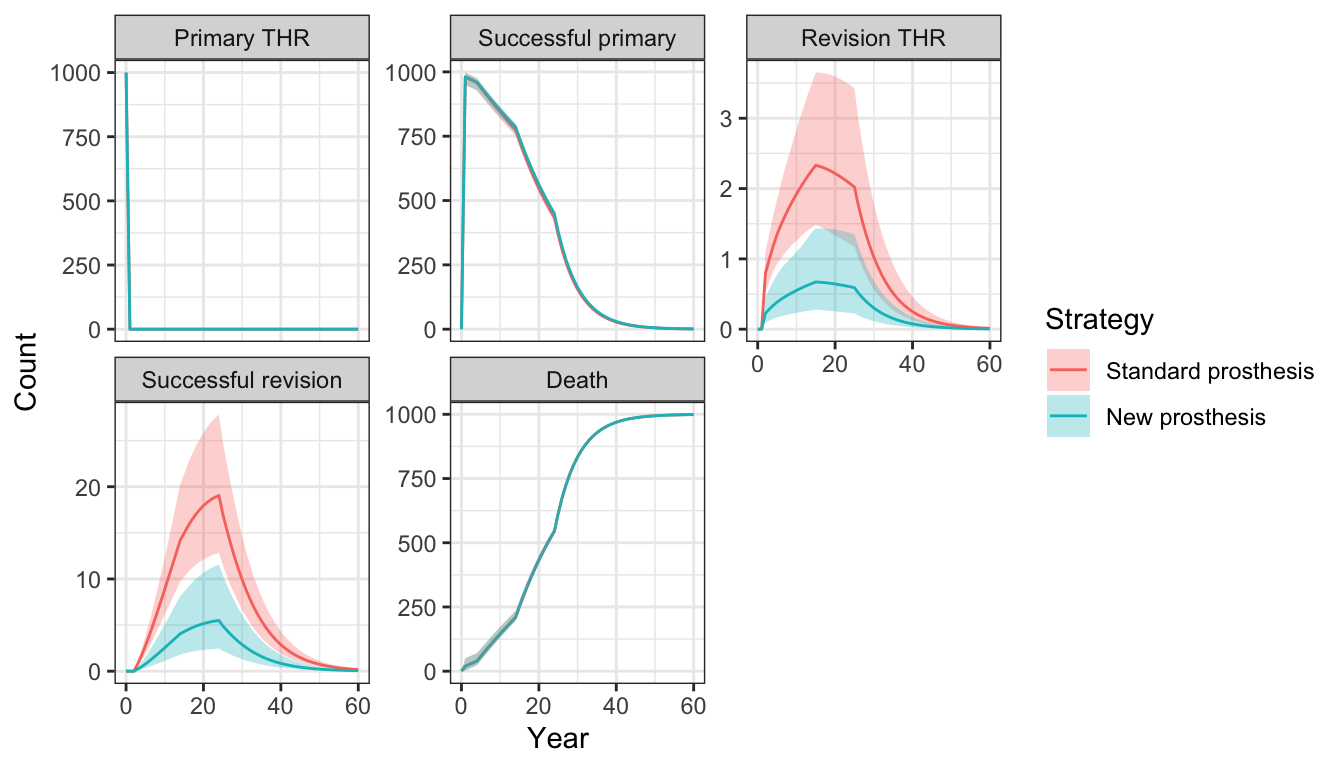
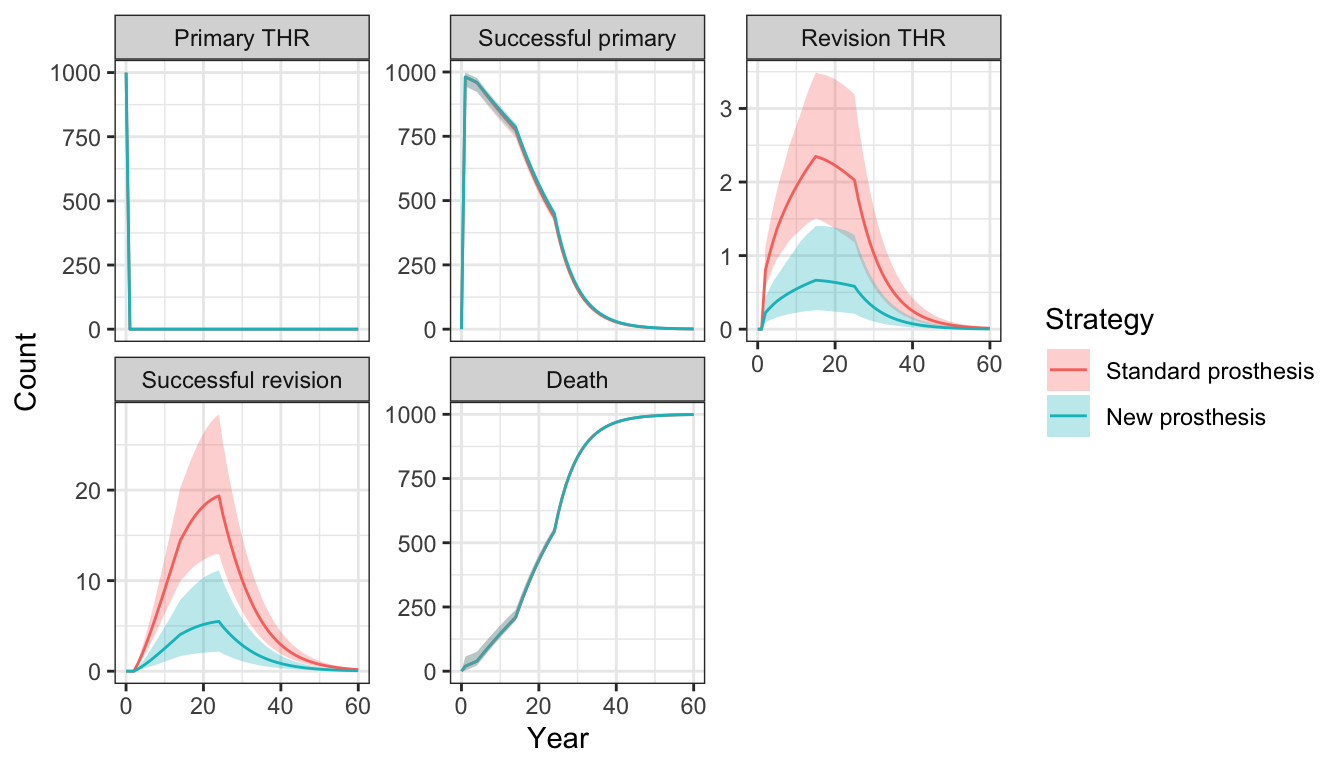
Explanation of matrix multiplication in computational efficiency portion of markov inhomogeneous cobort vignette

diff --git a/docs/dev/articles/markov-inhomogeneous-cohort.html b/docs/dev/articles/markov-inhomogeneous-cohort.html
@@ -543,38 +543,38 @@ S(t) = \exp(-\lambda t^\gamma) \\
               <span class="fu">.</span>(<span class="kw">mean</span> <span class="kw">=</span> <span class="fu"><a href="https://rdrr.io/r/base/mean.html">mean</a></span>(<span class="no">qalys</span>)),
                 <span class="kw">by</span> <span class="kw">=</span> <span class="fu"><a href="https://rdrr.io/r/base/c.html">c</a></span>(<span class="st">"strategy_id"</span>, <span class="st">"grp_id"</span>)]</pre></body></html></div>
 <pre><code>##    strategy_id grp_id     mean
-## 1:           1      2 14.65901
-## 2:           2      2 14.70386</code></pre>
+## 1:           1      2 14.62572
+## 2:           2      2 14.67081</code></pre>
 <div class="sourceCode" id="cb20"><html><body><pre class="r"><span class="no">ce_sim</span>$<span class="no">costs</span>[<span class="no">grp_id</span> <span class="kw">==</span> <span class="fl">2</span> <span class="kw">&amp;</span> <span class="no">category</span> <span class="kw">==</span> <span class="st">"total"</span>,
             <span class="fu">.</span>(<span class="kw">mean</span> <span class="kw">=</span> <span class="fu"><a href="https://rdrr.io/r/base/mean.html">mean</a></span>(<span class="no">costs</span>)),
               <span class="kw">by</span> <span class="kw">=</span> <span class="fu"><a href="https://rdrr.io/r/base/c.html">c</a></span>(<span class="st">"strategy_id"</span>, <span class="st">"grp_id"</span>)]</pre></body></html></div>
 <pre><code>##    strategy_id grp_id     mean
-## 1:           1      2 511.4377
-## 2:           2      2 612.7406</code></pre>
+## 1:           1      2 509.7931
+## 2:           2      2 611.8894</code></pre>
 <p>We can then compute incremental cost-effectiveness ratios for each subgroup. There is considerable variation which is not unexpected since the the revision rate for prostheses (<em>rr</em>) depends on covariates.</p>
 <div class="sourceCode" id="cb22"><html><body><pre class="r"><span class="fu"><a href="../reference/icer_tbl.html">icer_tbl</a></span>(<span class="no">cea_pw_out</span>, <span class="kw">output</span> <span class="kw">=</span> <span class="st">"data.table"</span>)</pre></body></html></div>
 <pre><code>##     strategy_id grp_id            iqalys         icosts                  inmb
-##  1:           2      1 0.07 (0.03, 0.13)  68 (-43, 136)  3,562 (1,243, 6,627)
-##  2:           2      2 0.04 (0.02, 0.08)  101 (17, 150)    2,141 (704, 4,074)
-##  3:           2      3 0.03 (0.01, 0.05)  127 (66, 161)    1,211 (365, 2,354)
-##  4:           2      4 0.02 (0.01, 0.03) 146 (103, 169)      624 (135, 1,299)
-##  5:           2      5 0.01 (0.00, 0.02) 160 (131, 175)         273 (-5, 661)
-##  6:           2      6 0.12 (0.04, 0.20) -27 (-216, 96) 5,785 (2,036, 10,064)
-##  7:           2      7 0.07 (0.02, 0.12) 35 (-101, 122)  3,458 (1,230, 6,063)
-##  8:           2      8 0.04 (0.02, 0.07)  83 (-13, 142)    1,964 (647, 3,540)
-##  9:           2      9 0.02 (0.01, 0.04)  117 (52, 157)    1,046 (305, 1,920)
-## 10:           2     10 0.01 (0.01, 0.02)  142 (99, 167)      508 (102, 1,007)
+##  1:           2      1 0.07 (0.03, 0.13)  70 (-32, 135)  3,565 (1,294, 6,641)
+##  2:           2      2 0.05 (0.02, 0.08)  102 (27, 150)    2,152 (756, 4,059)
+##  3:           2      3 0.03 (0.01, 0.05)  127 (75, 160)    1,222 (397, 2,408)
+##  4:           2      4 0.02 (0.01, 0.03) 146 (110, 169)      634 (157, 1,337)
+##  5:           2      5 0.01 (0.00, 0.02) 160 (136, 175)         280 (18, 680)
+##  6:           2      6 0.12 (0.05, 0.21) -25 (-197, 96) 5,851 (2,250, 10,605)
+##  7:           2      7 0.07 (0.03, 0.13)  36 (-90, 122)  3,511 (1,335, 6,422)
+##  8:           2      8 0.04 (0.02, 0.08)   83 (-4, 142)    2,003 (723, 3,759)
+##  9:           2      9 0.02 (0.01, 0.04)  117 (58, 157)    1,073 (360, 2,078)
+## 10:           2     10 0.01 (0.01, 0.02) 141 (102, 167)      525 (118, 1,089)
 ##          icer     conclusion
-##  1:       943 Cost-effective
-##  2:     2,259 Cost-effective
-##  3:     4,743 Cost-effective
-##  4:     9,486 Cost-effective
-##  5:    18,465 Cost-effective
+##  1:       963 Cost-effective
+##  2:     2,264 Cost-effective
+##  3:     4,712 Cost-effective
+##  4:     9,368 Cost-effective
+##  5:    18,153 Cost-effective
 ##  6: Dominates Cost-effective
-##  7:       504 Cost-effective
-##  8:     2,023 Cost-effective
-##  9:     5,039 Cost-effective
-## 10:    10,916 Cost-effective</code></pre>
+##  7:       508 Cost-effective
+##  8:     1,988 Cost-effective
+##  9:     4,918 Cost-effective
+## 10:    10,611 Cost-effective</code></pre>
 </div>
 <div id="overall" class="section level2">
 <h2 class="hasAnchor">
@@ -586,9 +586,9 @@ S(t) = \exp(-\lambda t^\gamma) \\
 <span class="fu"><a href="../reference/icer_tbl.html">icer_tbl</a></span>(<span class="no">cea_pw_out</span>)</pre></body></html></div>
 <pre><code>##                   1   2                   
 ## Incremental QALYs "-" "0.03 (0.01, 0.05)" 
-## Incremental costs "-" "119 (52, 157)"     
-## Incremental NMB   "-" "1,331 (442, 2,531)"
-## ICER              "-" "4,099"             
+## Incremental costs "-" "119 (63, 157)"     
+## Incremental NMB   "-" "1,349 (476, 2,594)"
+## ICER              "-" "4,054"             
 ## Conclusion        "-" "Cost-effective"</code></pre>
 </div>
 </div>
@@ -622,7 +622,7 @@ tp(t_u) &amp;= 1 - exp\{\lambda (t-u)^\gamma -\lambda t^\gamma\} \\
 <h2 class="hasAnchor">
 <a href="#computational-efficiency" class="anchor"></a>Computational efficiency</h2>
 <p>The largest bottleneck in <code><a href="../reference/define_model.html">define_model()</a></code> is the construction of the economic model and the construction of the transition model in particular. The reason for this is that all transition probabilities are “vectorized” and consequently preallocated. This preallocation can take time if the number of parameter samples <span class="math inline">\(\times\)</span> treatment strategies <span class="math inline">\(\times\)</span> patients <span class="math inline">\(\times\)</span> time periods is large. Since the <code>$sim_stateprobs()</code> method is implemented in <code>C++</code> the simulation is very fast one the transition probabilities have been constructed.</p>
-<p>The disadvantage of <code><a href="../reference/define_model.html">define_model()</a></code> for preallocation is that it is a general function, resulting in some overhead. An alternative approach is to construct the transition probability matrix ourselves using matrix algebra. That is, for a given sample of the parameters from the PSA, we can predict the element for the <span class="math inline">\(i\)</span>th row and <span class="math inline">\(j\)</span>th column as <span class="math inline">\(p_{ij} = g(x^T\theta)\)</span> where <span class="math inline">\(x\)</span> is an input matrix, <span class="math inline">\(\theta\)</span> is a vector of coefficients (i.e., a parameter sample), and <span class="math inline">\(g()\)</span> is a transformation function. An input matrix will always vary by treatment strategy and patient; in a time-inhomogeneous model, it will vary by time period as well.</p>
+<p>The disadvantage of <code><a href="../reference/define_model.html">define_model()</a></code> for preallocation is that it is a general function, resulting in some overhead. An alternative approach is to construct the transition probability matrix ourselves using matrix algebra. That is, for a given sample of the parameters from the PSA, we can predict the element for the <span class="math inline">\(r\)</span>th row and <span class="math inline">\(s\)</span>th column as <span class="math inline">\(p_{rs} = g(x^T\theta)\)</span> where <span class="math inline">\(x\)</span> is an input matrix, <span class="math inline">\(\theta\)</span> is a vector of coefficients (i.e., a parameter sample), and <span class="math inline">\(g()\)</span> is a transformation function. An input matrix will always vary by treatment strategy and patient; in a time-inhomogeneous model, it will vary by time period as well.</p>
 <div id="random-number-generation-1" class="section level3">
 <h3 class="hasAnchor">
 <a href="#random-number-generation-1" class="anchor"></a>Random number generation</h3>
@@ -725,7 +725,7 @@ tp(t_u) &amp;= 1 - exp\{\lambda (t-u)^\gamma -\lambda t^\gamma\} \\
 ## 4:      1           1          1      1     0.0325       4          3         4
 ## 5:      1           1          1      1     0.0325       5          4         5
 ## 6:      1           1          1      1     0.0325       6          5         6</code></pre>
-<p><code><a href="../reference/tpmatrix.html">tpmatrix()</a></code> produces a flattened transition probability matrix for each row of <code>tpmatrix_id</code>. We predict the elements of the matrix using the input matrices we derived above.</p>
+<p><code><a href="../reference/tpmatrix.html">tpmatrix()</a></code> produces a flattened transition probability matrix for each row of <code>tpmatrix_id</code>. We predict the elements of the matrix using the input matrices we derived above. Matrix multiplication of an <span class="math inline">\(n \times k\)</span> input matrix by a <span class="math inline">\(k \times s\)</span> coefficient matrix results in a <span class="math inline">\(n \times s\)</span> matrix of predicted values. In other words, there is one row for each of the <span class="math inline">\(n\)</span> rows in the input data and one column for each of the <span class="math inline">\(s\)</span> parameter samples. This matrix can itself be flattened into a vector of length <span class="math inline">\(n \cdot s\)</span> using the <code><a href="https://rdrr.io/r/base/c.html">c()</a></code> function. The result is a vector of predicted values stacked by parameter sample; that is, a prediction for each row produced by <code><a href="../reference/tpmatrix_id.html">tpmatrix_id()</a></code>.</p>
 <div class="sourceCode" id="cb38"><html><body><pre class="r"><span class="co"># "Transformed" parameters</span>
 <span class="no">time</span> <span class="kw">&lt;-</span> <span class="no">tpmat_id</span>$<span class="no">time_stop</span>
 <span class="no">omrPTHR</span> <span class="kw">&lt;-</span> <span class="fu"><a href="https://rdrr.io/r/base/c.html">c</a></span>(<span class="no">x_cons</span> <span class="kw">%*%</span> <span class="no">params_rng</span>$<span class="no">omrPTHR</span>)
@@ -745,12 +745,12 @@ tp(t_u) &amp;= 1 - exp\{\lambda (t-u)^\gamma -\lambda t^\gamma\} \\
   <span class="fl">0</span>, <span class="fl">0</span>, <span class="fl">0</span>,   <span class="fl">0</span>, <span class="fl">1</span>
 )
 <span class="no">tpmat</span>[<span class="fl">1</span>, ]</pre></body></html></div>
-<pre><code>##    s1_s1     s1_s2 s1_s3 s1_s4      s1_s5 s2_s1     s2_s2        s2_s3 s2_s4
-## 1:     0 0.9844351     0     0 0.01556493     0 0.9927275 0.0005724897     0
-##     s2_s5 s3_s1 s3_s2 s3_s3     s3_s4      s3_s5 s4_s1 s4_s2      s4_s3
-## 1: 0.0067     0     0     0 0.9777351 0.02226493     0     0 0.02247722
-##        s4_s4  s4_s5 s5_s1 s5_s2 s5_s3 s5_s4 s5_s5
-## 1: 0.9708228 0.0067     0     0     0     0     1</code></pre>
+<pre><code>##    s1_s1     s1_s2 s1_s3 s1_s4     s1_s5 s2_s1     s2_s2        s2_s3 s2_s4
+## 1:     0 0.9787901     0     0 0.0212099     0 0.9927714 0.0005285932     0
+##     s2_s5 s3_s1 s3_s2 s3_s3     s3_s4     s3_s5 s4_s1 s4_s2      s4_s3    s4_s4
+## 1: 0.0067     0     0     0 0.9720901 0.0279099     0     0 0.04606698 0.947233
+##     s4_s5 s5_s1 s5_s2 s5_s3 s5_s4 s5_s5
+## 1: 0.0067     0     0     0     0     1</code></pre>
 <p>Finally, we combine the ID variables and the transition probability matrices into a single object.</p>
 <div class="sourceCode" id="cb40"><html><body><pre class="r"><span class="no">tparams_transprobs</span> <span class="kw">&lt;-</span> <span class="fu"><a href="../reference/tparams_transprobs.html">tparams_transprobs</a></span>(<span class="no">tpmat</span>, <span class="no">tpmat_id</span>)</pre></body></html></div>
 </div>
@@ -769,15 +769,15 @@ tp(t_u) &amp;= 1 - exp\{\lambda (t-u)^\gamma -\lambda t^\gamma\} \\
               <span class="fu">.</span>(<span class="kw">mean</span> <span class="kw">=</span> <span class="fu"><a href="https://rdrr.io/r/base/mean.html">mean</a></span>(<span class="no">qalys</span>)),
                 <span class="kw">by</span> <span class="kw">=</span> <span class="fu"><a href="https://rdrr.io/r/base/c.html">c</a></span>(<span class="st">"strategy_id"</span>, <span class="st">"grp_id"</span>)]</pre></body></html></div>
 <pre><code>##    strategy_id grp_id     mean
-## 1:           1      2 14.66426
-## 2:           2      2 14.70811</code></pre>
+## 1:           1      2 14.61970
+## 2:           2      2 14.66424</code></pre>
 <div class="sourceCode" id="cb43"><html><body><pre class="r"><span class="no">ce_sim</span>$<span class="no">costs</span>[<span class="no">grp_id</span> <span class="kw">==</span> <span class="fl">2</span> <span class="kw">&amp;</span> <span class="no">category</span> <span class="kw">==</span> <span class="st">"total"</span>,
             <span class="fu">.</span>(<span class="kw">mean</span> <span class="kw">=</span> <span class="fu"><a href="https://rdrr.io/r/base/mean.html">mean</a></span>(<span class="no">costs</span>)),
               <span class="kw">by</span> <span class="kw">=</span> <span class="fu"><a href="https://rdrr.io/r/base/c.html">c</a></span>(<span class="st">"strategy_id"</span>, <span class="st">"grp_id"</span>)]</pre></body></html></div>
 <pre><code>##    strategy_id grp_id     mean
-## 1:           1      2 510.2951
-## 2:           2      2 613.3530</code></pre>
-<p>However, time to construct the transition model was 3.2 times faster. Although both are quite fast (time in the table is in seconds), this difference would become more pronounced as the number of parameter samples, treatment strategies, patients, and/or distinct time periods increased.</p>
+## 1:           1      2 509.1848
+## 2:           2      2 612.2912</code></pre>
+<p>However, time to construct the transition model was 3.1 times faster. Although both are quite fast (time in the table is in seconds), this difference would become more pronounced as the number of parameter samples, treatment strategies, patients, and/or distinct time periods increased.</p>
 <div class="sourceCode" id="cb45"><html><body><pre class="r"><span class="fu"><a href="https://Rdatatable.gitlab.io/data.table/reference/data.table.html">data.table</a></span>(
   <span class="kw">Method</span> <span class="kw">=</span> <span class="fu"><a href="https://rdrr.io/r/base/c.html">c</a></span>(<span class="st">"define_model()"</span>, <span class="st">"Custom tpmatrix()"</span>),
   <span class="fu"><a href="https://Rdatatable.gitlab.io/data.table/reference/rbindlist.html">rbind</a></span>(
@@ -808,13 +808,13 @@ elapsed
 define_model()
 </td>
 <td style="text-align:right;">
-3.964
+4.006
 </td>
 <td style="text-align:right;">
-0.693
+0.708
 </td>
 <td style="text-align:right;">
-4.704
+4.813
 </td>
 </tr>
 <tr>
@@ -822,13 +822,13 @@ define_model()
 Custom tpmatrix()
 </td>
 <td style="text-align:right;">
-1.049
+1.095
 </td>
 <td style="text-align:right;">
-0.407
+0.408
 </td>
 <td style="text-align:right;">
-1.478
+1.552
 </td>
 </tr>
 </tbody>
